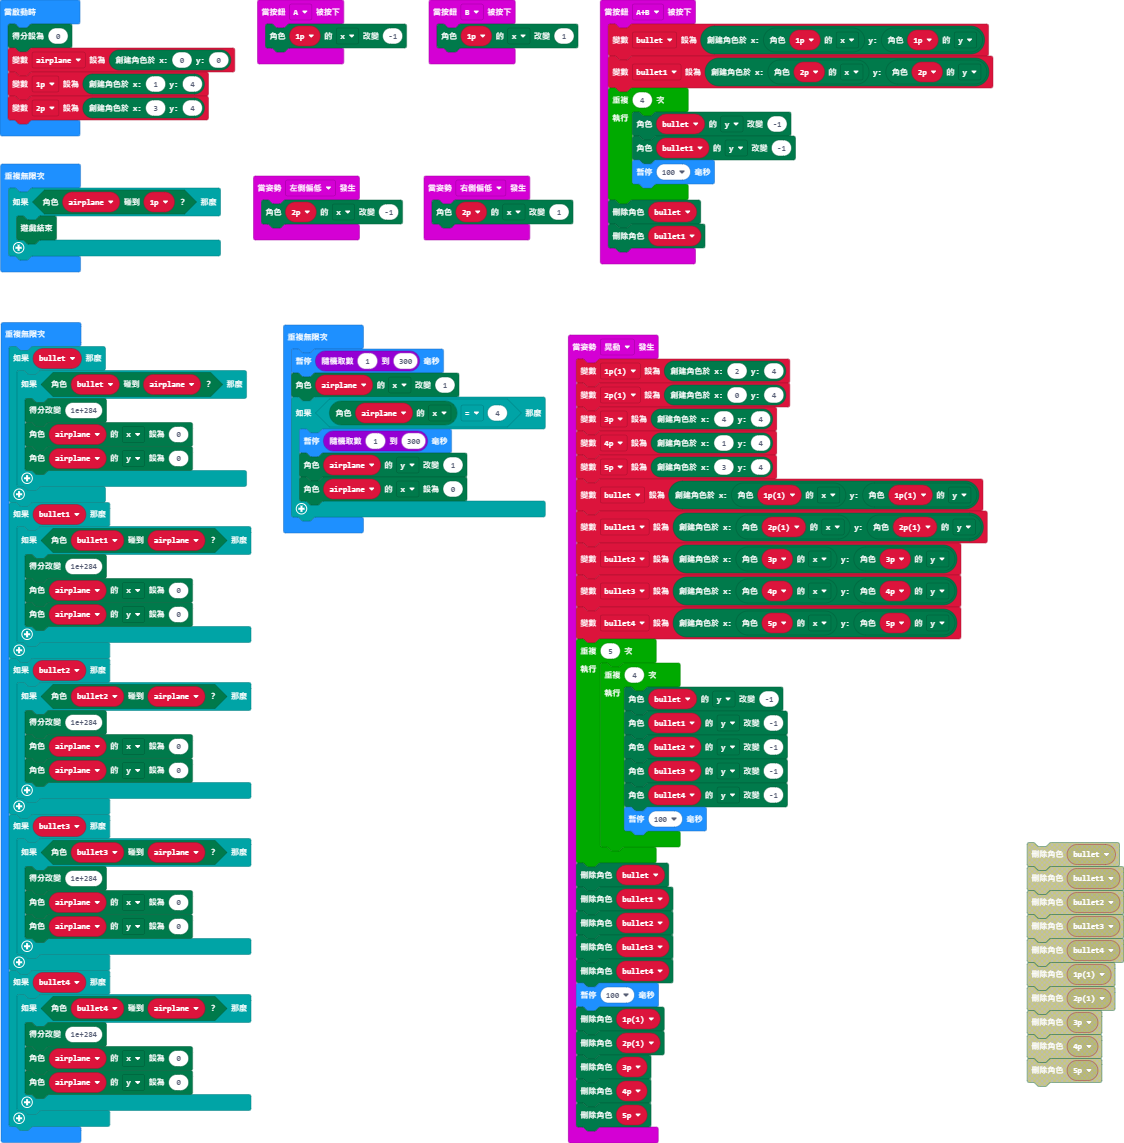
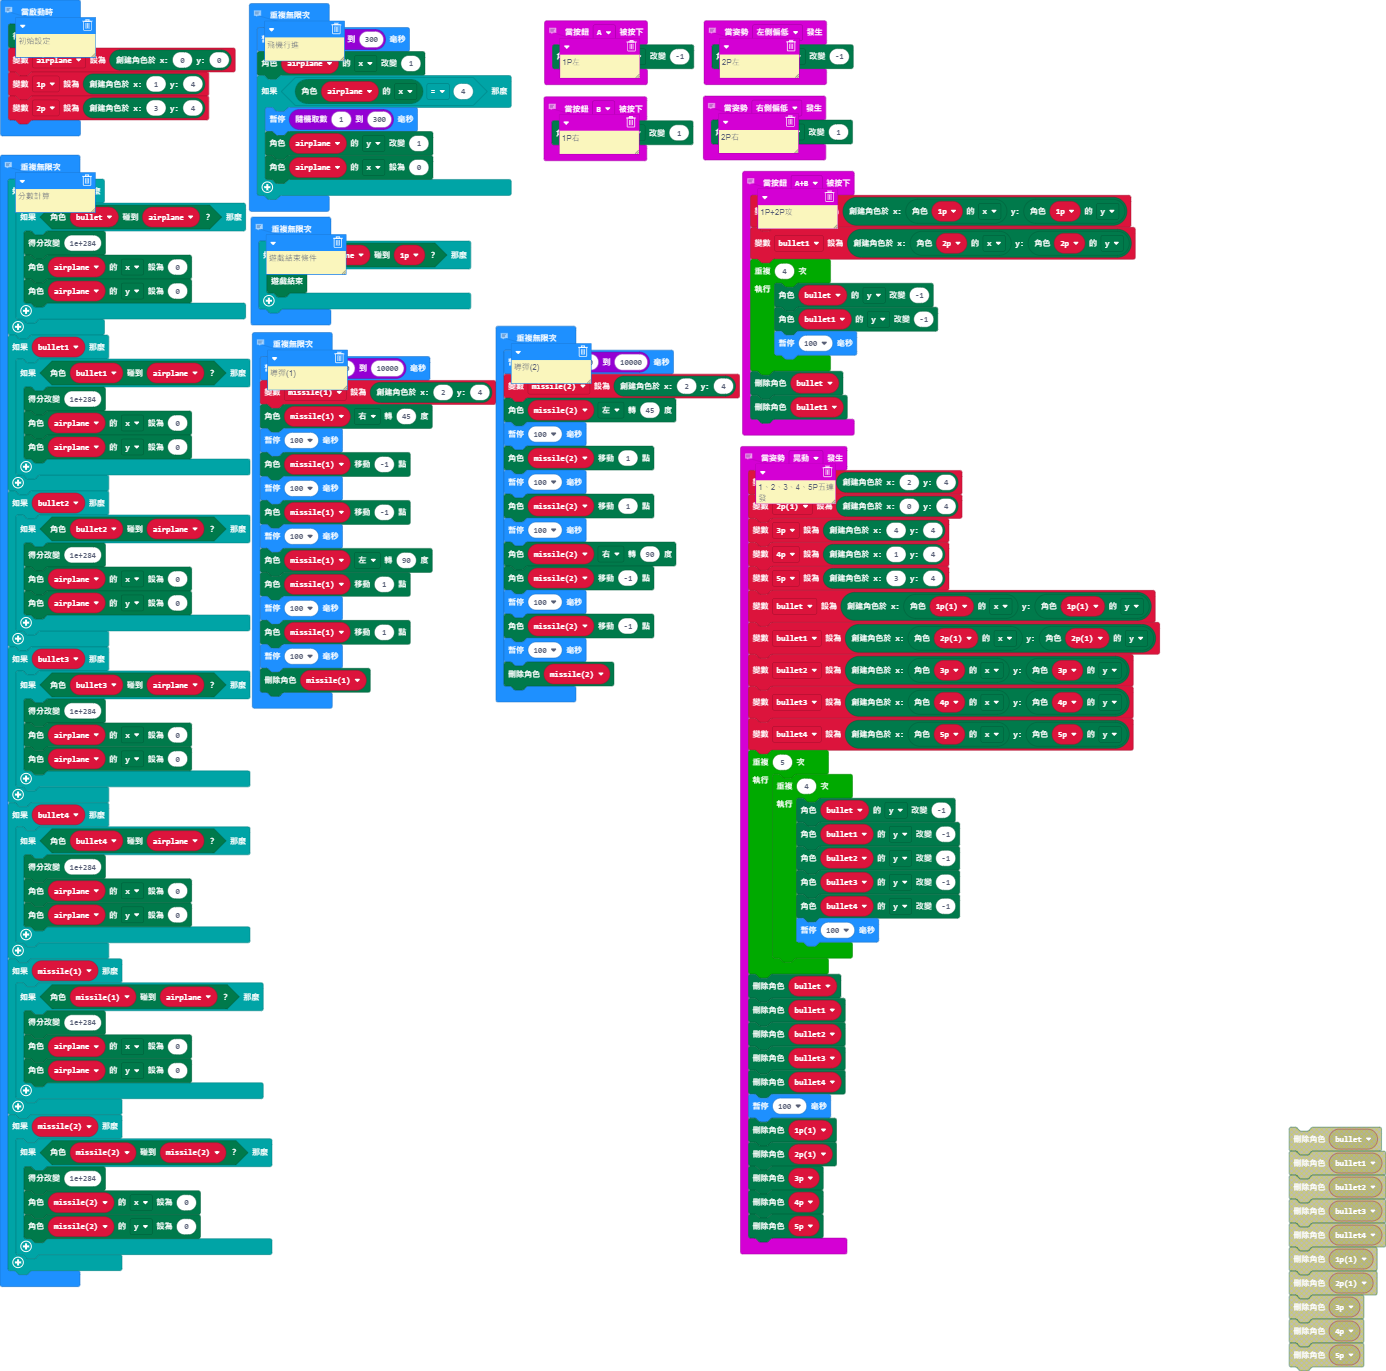
更新 main.blocks, main.ts

diff --git a/main.ts b/main.ts
@@ -1,9 +1,12 @@
+// 2P左
 input.onGesture(Gesture.TiltLeft, function () {
     _2p.change(LedSpriteProperty.X, -1)
 })
+// 1P左
 input.onButtonPressed(Button.A, function () {
     _1p.change(LedSpriteProperty.X, -1)
 })
+// 1、2、3、4、5P五連發
 input.onGesture(Gesture.Shake, function () {
     _1p1 = game.createSprite(2, 4)
     _2p1 = game.createSprite(0, 4)
@@ -37,6 +40,7 @@ input.onGesture(Gesture.Shake, function () {
     _4p.delete()
     _5p.delete()
 })
+// 1P+2P攻
 input.onButtonPressed(Button.AB, function () {
     bullet = game.createSprite(_1p.get(LedSpriteProperty.X), _1p.get(LedSpriteProperty.Y))
     bullet1 = game.createSprite(_2p.get(LedSpriteProperty.X), _2p.get(LedSpriteProperty.Y))
@@ -48,12 +52,17 @@ input.onButtonPressed(Button.AB, function () {
     bullet.delete()
     bullet1.delete()
 })
+// 1P右
 input.onButtonPressed(Button.B, function () {
     _1p.change(LedSpriteProperty.X, 1)
 })
+// 2P右
 input.onGesture(Gesture.TiltRight, function () {
     _2p.change(LedSpriteProperty.X, 1)
 })
+// 初始設定
+let missile2: game.LedSprite = null
+let missile1: game.LedSprite = null
 let bullet4: game.LedSprite = null
 let bullet3: game.LedSprite = null
 let bullet2: game.LedSprite = null
@@ -70,11 +79,17 @@ game.setScore(0)
 let airplane = game.createSprite(0, 0)
 _1p = game.createSprite(1, 4)
 _2p = game.createSprite(3, 4)
+// 飛機行進
 basic.forever(function () {
-    if (airplane.isTouching(_1p)) {
-        game.gameOver()
+    basic.pause(randint(1, 300))
+    airplane.change(LedSpriteProperty.X, 1)
+    if (airplane.get(LedSpriteProperty.X) == 4) {
+        basic.pause(randint(1, 300))
+        airplane.change(LedSpriteProperty.Y, 1)
+        airplane.set(LedSpriteProperty.X, 0)
     }
 })
+// 分數計算
 basic.forever(function () {
     if (bullet) {
         if (bullet.isTouching(airplane)) {
@@ -111,13 +126,58 @@ basic.forever(function () {
             airplane.set(LedSpriteProperty.Y, 0)
         }
     }
-})
-basic.forever(function () {
-    basic.pause(randint(1, 300))
-    airplane.change(LedSpriteProperty.X, 1)
-    if (airplane.get(LedSpriteProperty.X) == 4) {
-        basic.pause(randint(1, 300))
-        airplane.change(LedSpriteProperty.Y, 1)
-        airplane.set(LedSpriteProperty.X, 0)
+    if (missile1) {
+        if (missile1.isTouching(airplane)) {
+            game.addScore(1e+284)
+            airplane.set(LedSpriteProperty.X, 0)
+            airplane.set(LedSpriteProperty.Y, 0)
+        }
     }
+    if (missile2) {
+        if (missile2.isTouching(missile2)) {
+            game.addScore(1e+284)
+            missile2.set(LedSpriteProperty.X, 0)
+            missile2.set(LedSpriteProperty.Y, 0)
+        }
+    }
+})
+// 遊戲結束條件
+basic.forever(function () {
+    if (airplane.isTouching(_1p)) {
+        game.gameOver()
+    }
+})
+// 導彈(1)
+basic.forever(function () {
+    basic.pause(randint(5000, 10000))
+    missile1 = game.createSprite(2, 4)
+    missile1.turn(Direction.Right, 45)
+    basic.pause(100)
+    missile1.move(-1)
+    basic.pause(100)
+    missile1.move(-1)
+    basic.pause(100)
+    missile1.turn(Direction.Left, 90)
+    missile1.move(1)
+    basic.pause(100)
+    missile1.move(1)
+    basic.pause(100)
+    missile1.delete()
+})
+// 導彈(2)
+basic.forever(function () {
+    basic.pause(randint(5000, 10000))
+    missile2 = game.createSprite(2, 4)
+    missile2.turn(Direction.Left, 45)
+    basic.pause(100)
+    missile2.move(1)
+    basic.pause(100)
+    missile2.move(1)
+    basic.pause(100)
+    missile2.turn(Direction.Right, 90)
+    missile2.move(-1)
+    basic.pause(100)
+    missile2.move(-1)
+    basic.pause(100)
+    missile2.delete()
 })
